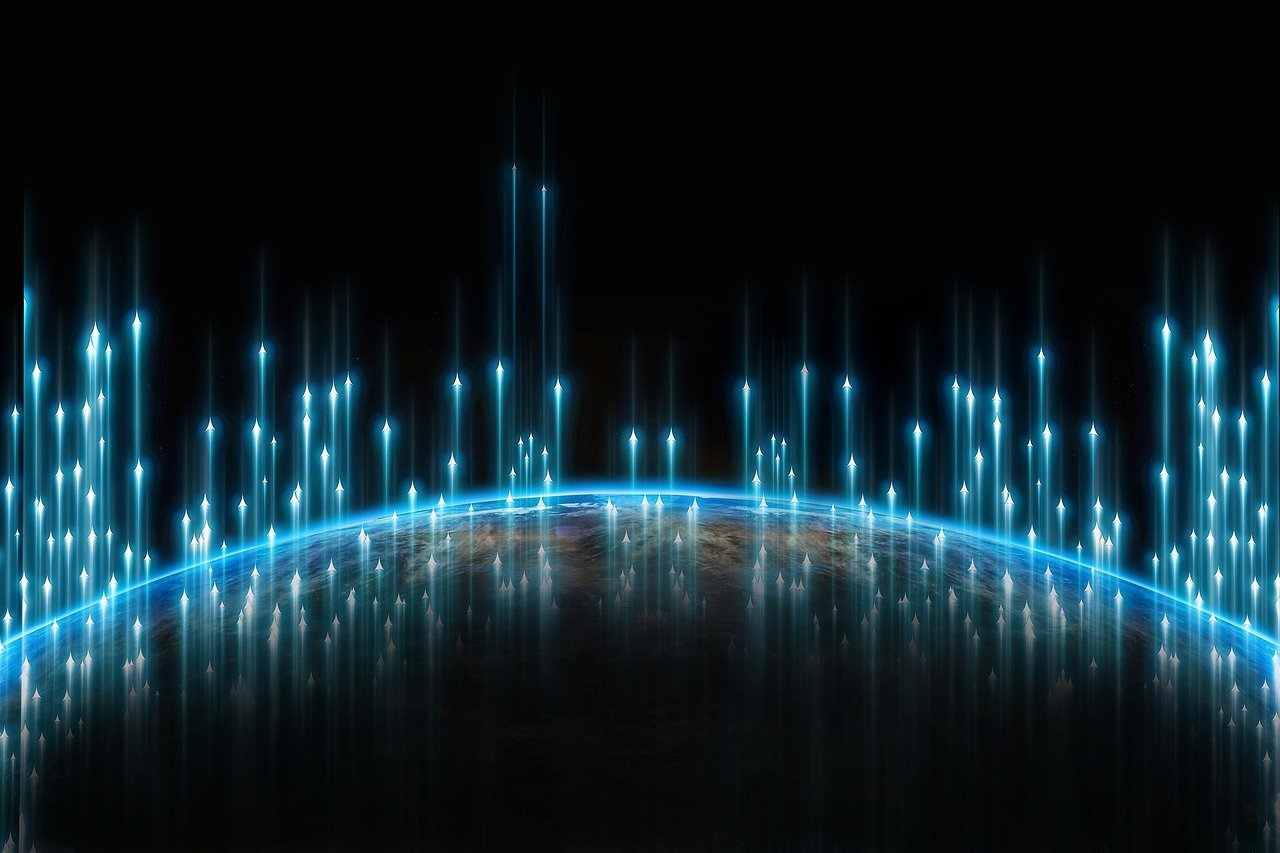
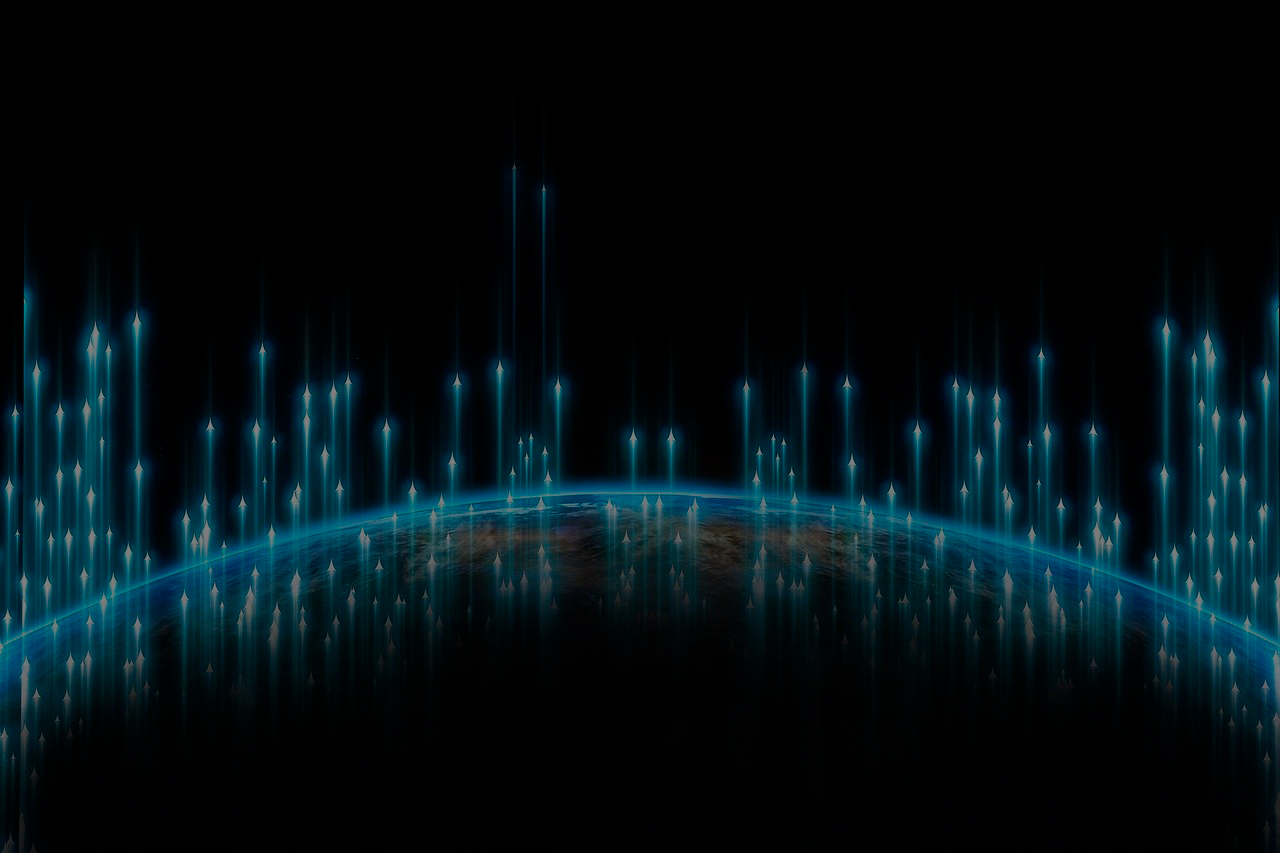
Arreglado Problema con Edit Movie

diff --git a/src/pages/HomePage.jsx b/src/pages/HomePage.jsx
@@ -41,8 +41,19 @@ function HomePage() {
             </div>
         )
     }
+
+    console.log(listMovies);
+    console.log(listMovies.length);
+
+    /*
+    if(listMovies !== null && listMovies.length === 0) {
+        return (
+            <h2>La data está vacía... ¡Rápido! Ve a buscar las pelis que más te interesen. En el icono de las palomitas tienes todo lo necesario</h2>
+        )
+    }
+        */
   
-    //console.log(listMovies);
+
 
     return (
     <div>
@@ -53,6 +64,9 @@ function HomePage() {
             <button className="btnMainGreen" onClick={mostrarPeliculasVistas}>Películas ya vistas</button>
         </div>
 
+
+        {listMovies !== null && listMovies.length === 0 ? <h2>La data está vacía... ¡Rápido! Ve a buscar las pelis que más te interesen. En el icono de las palomitas tienes todo lo necesario</h2> 
+        :  
         <div className="d-flex justify-content-center align-content-center flex-wrap" style={{marginTop: "25px"}}>
             {listMovies.map((cadaMovie, index) => {
                 //console.log(cadaMovie)
@@ -64,6 +78,7 @@ function HomePage() {
         
             })}
         </div>
+        }
 
     </div>
   )

diff --git a/src/components/SideBar.jsx b/src/components/SideBar.jsx
@@ -7,8 +7,11 @@ function SideBarHome(props) {
 
   const sideBarCSS = {
 
-    backgroundColor: "#9C1A1A", // Rojo Oscuro #9C1A1A
+    //backgroundColor: "#9C1A1A", // Rojo Oscuro #9C1A1A
     //backgroundImage: "url:(imagen_fondo_sidebar_01.jpg)"
+    background: "url(imagen_fondo_sidebar_01.jpg) 0" ,
+    backgroundSize: "cover",
+    backgroundColor: "black 20%",
     alignItems: "center", 
     borderRadius: "10px",
     border: "solid", 
@@ -21,7 +24,7 @@ function SideBarHome(props) {
     justifyContent: "start",
     left: "200px",
     transform: props.cambioScaleY,
-    transition: "all 0.4s"
+    transition: "all 0.4s",
   }
 
   console.log("Esto es dentro de SideBar")
@@ -30,8 +33,8 @@ function SideBarHome(props) {
   return (
     <div style={sideBarCSS}>
 
-        <Link to="/buscar_peliculas"><h2 style={{color: "white"}}>Buscar Películas</h2></Link>
-        <Link to="/"><h2 style={{color: "white"}}>Películas Pendientes de Ver</h2></Link>
+        <Link to="/buscar_peliculas"><h2 className="enlacesSideBar">Buscar Películas</h2></Link>
+        <Link to="/"><h2 className="enlacesSideBar">Películas Pendientes de Ver</h2></Link>
 
     </div>
   )

diff --git a/src/pages/EditMovie.jsx b/src/pages/EditMovie.jsx
@@ -7,7 +7,7 @@ function EditMovie() {
 const [movieDB, setMovieDB] = useState(null)
 const [datoMovieAPI, setDatoMovieAPI] = useState(null)
 const [rating, setRating] = useState(0)
-const [watch, setWatch] = useState(false)
+const [watch, setWatch] = useState(null)
 const parametrosDinamicos = useParams()
 const navigate = useNavigate()
 console.log(parametrosDinamicos)
@@ -51,6 +51,8 @@ useEffect(() => {
 
   const realizarEdicion = async (evento) => {
     evento.preventDefault()
+    console.log("Esto es la Watch que viene de antes en la Movie Card")
+    console.log(watch)
 
     try {
         await axios.patch(`${import.meta.env.VITE_SERVER_URL}/watchMovies/${parametrosDinamicos.movieID}`, {
@@ -75,6 +77,11 @@ useEffect(() => {
    //console.log("Esto es Watch")
    //console.log(watch)
 
+
+   // Iniciamos el valor watch al que venía ya puesto en la ficha de la película
+   if(watch === null) {
+    setWatch(movieDB.watch)
+   }
 
     return (
     <div style={{display: "flex", flexDirection: "column", alignItems: "center"}}>

diff --git a/src/pages/MovieDetails.jsx b/src/pages/MovieDetails.jsx
@@ -110,11 +110,13 @@ console.log(datoMovieAPI.credits.cast);
           <img src={baseURLImage + datoMovieAPI.poster_path} alt="poster-pelicula" />
           <h2>{datoMovieAPI.title}</h2>
           <div className="movieDTCardBody"> 
+            <div className="ratingCard" > 
+              <p>Rating: {movieDB.rating}</p>
+              <p>{movieDB.watch === true ? "✅" : "❌"}</p>
+            </div>
             <p>Duración: {datoMovieAPI.runtime} minutos</p>
             <p>Fecha de estreno: {datoMovieAPI.release_date}</p>  
             <p>{datoMovieAPI.overview}</p>
-            <p>Rating: {movieDB.rating}</p>
-            <p>{movieDB.watch === true ? "✅" : "❌"}</p>
           </div>
           <div className="carouselProfileCast">
             <Carousel>

diff --git a/src/App.css b/src/App.css
@@ -45,6 +45,14 @@ a:visited {
   align-items: center;
 }
 
+.enlacesSideBar {
+  color: black;
+  -webkit-text-stroke: 1px #d1f7fe;
+  text-shadow: 2px 1px 1px #fc296c;
+  font-weight: 900;
+  font-size: 2.3rem;
+}
+
 /*#btnSidebarCSS {
   
 }*/
@@ -75,10 +83,19 @@ a:visited {
   flex-wrap: wrap;
   justify-content: space-evenly;
   margin-top: 30px;
+  border-top: solid black;
 }
 
 .movieDTCardBody p {
   padding: 10px;
+}
+
+.ratingCard {
+  display: flex;
+  width: 100%;
+  justify-content: space-evenly;
+  border-bottom: solid black;
+  margin-bottom: 40px;
 }
 
 .carouselProfileCast {
